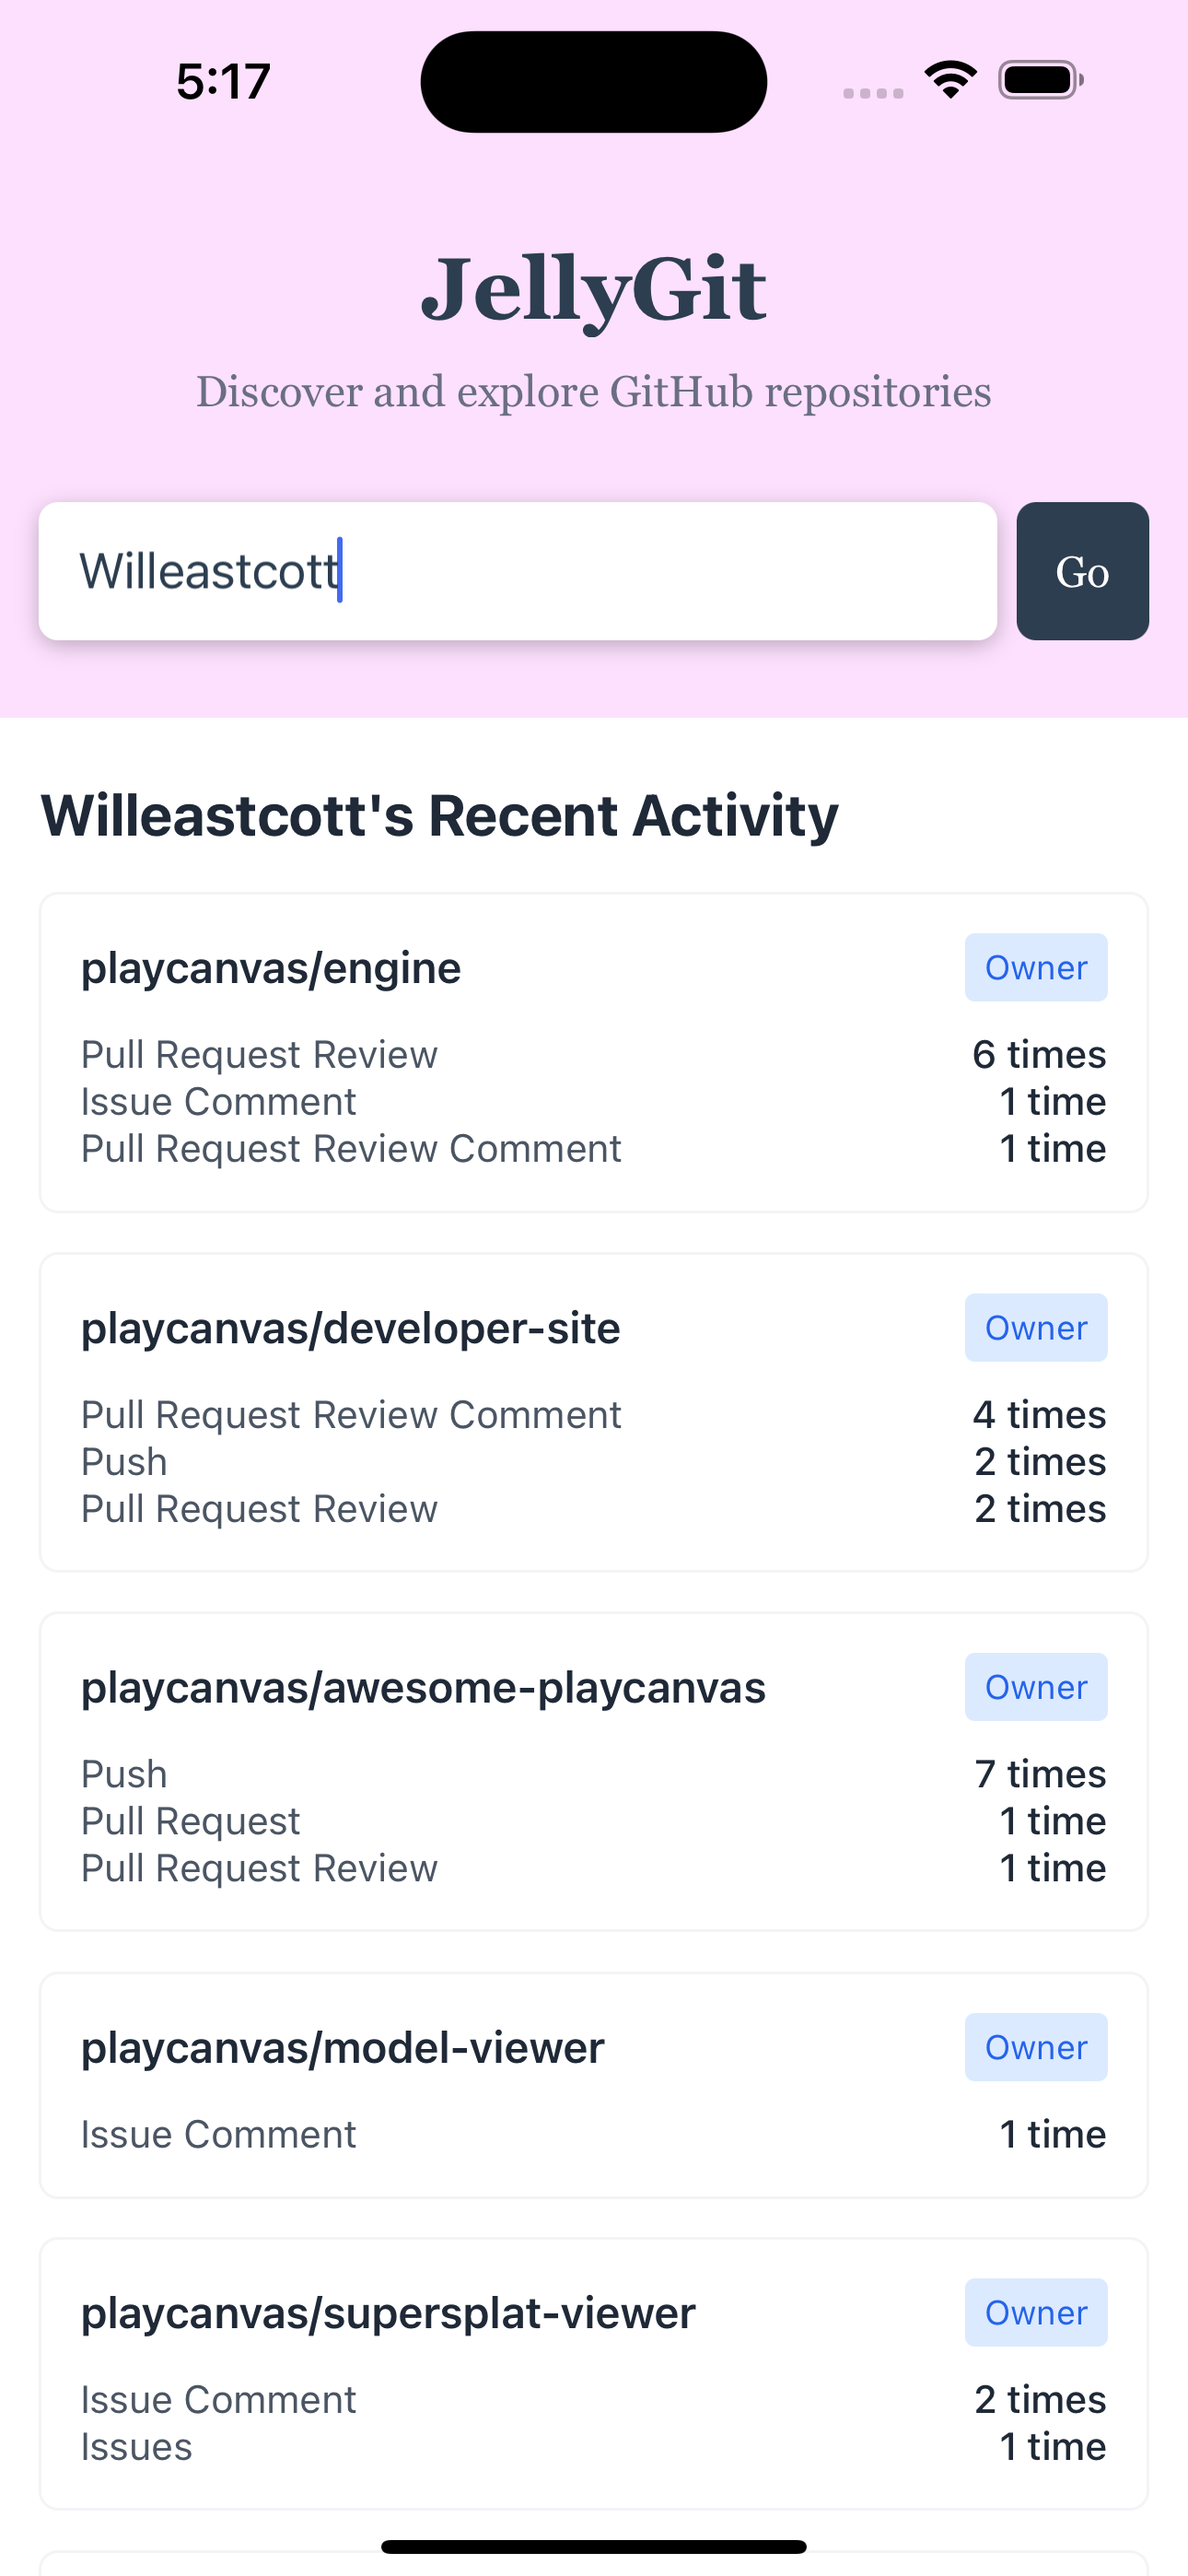
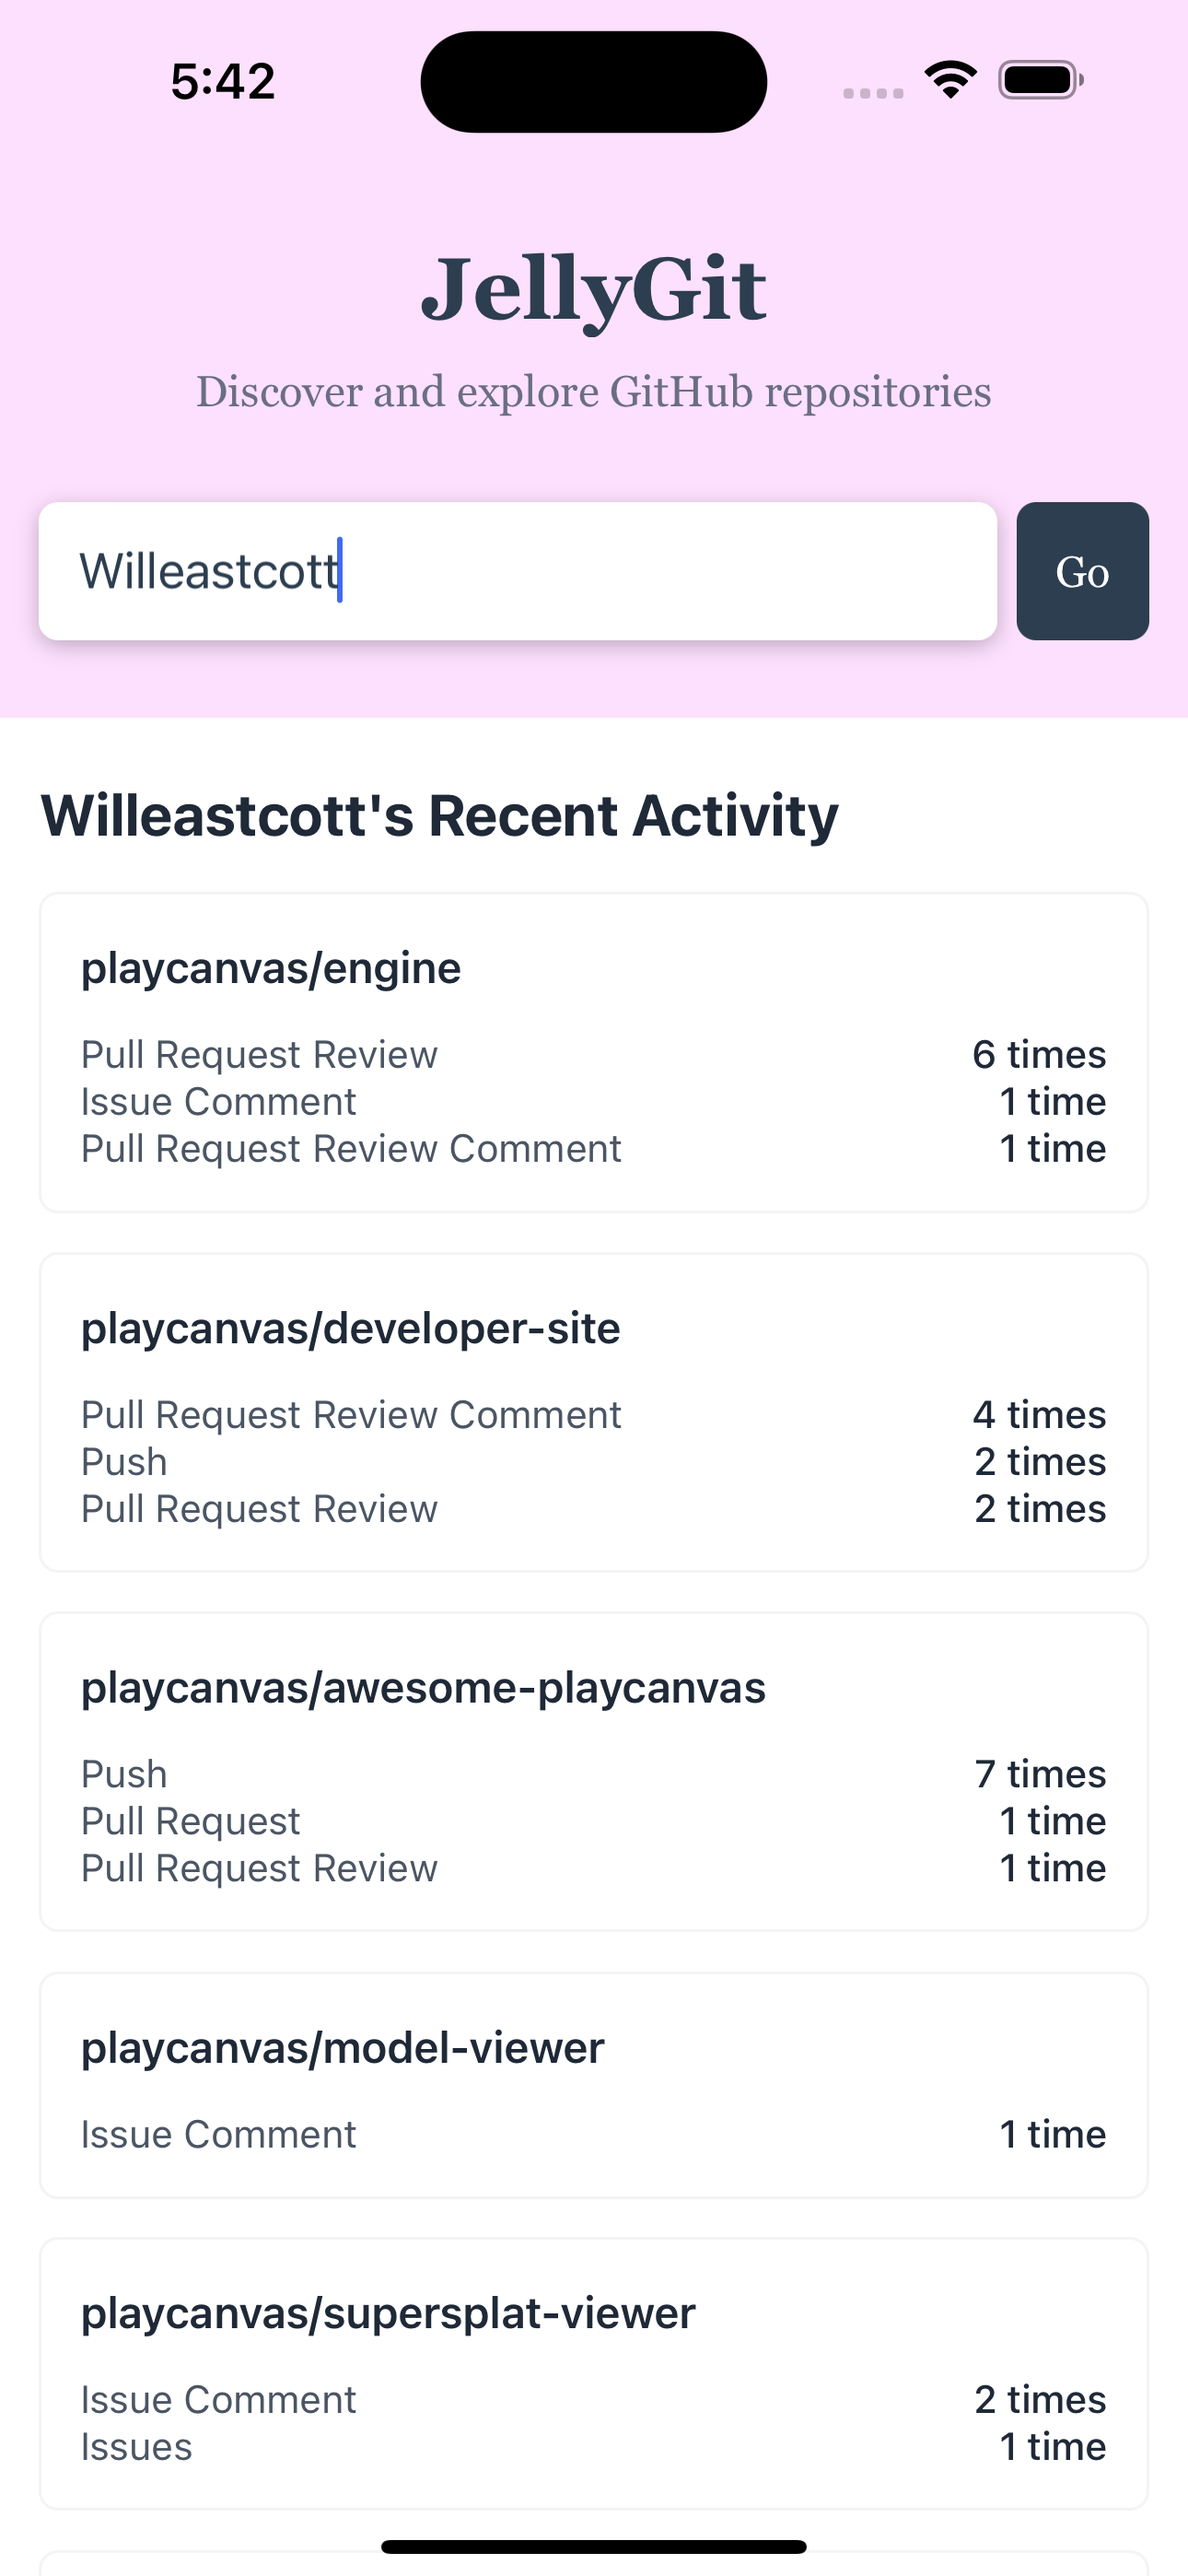
Handling for one more edge case

diff --git a/utils/__tests__/backend.test.ts b/utils/__tests__/backend.test.ts
@@ -1,0 +1,131 @@
+import { GitHubEvent } from '@/types/github';
+import { fetchRepositoriesDetails } from '../backend';
+
+describe('Backend Utilities', () => {
+    describe('fetchRepositoriesDetails', () => {
+        const mockUsername = 'testuser';
+        const mockEventsByRepoId: Record<string, GitHubEvent[]> = {
+            '123': [{
+                id: '1',
+                type: 'PushEvent',
+                actor: {
+                    id: 123,
+                    login: 'testuser',
+                    display_login: 'testuser',
+                    gravatar_id: '',
+                    url: 'https://api.github.com/users/testuser',
+                    avatar_url: 'https://github.com/avatar.png'
+                },
+                repo: {
+                    id: 123,
+                    name: 'testuser/repo1',
+                    url: 'https://github.com/testuser/repo1'
+                },
+                payload: {
+                    commits: [],
+                    push_id: 123,
+                    size: 1,
+                    distinct_size: 1,
+                    ref: 'refs/heads/main',
+                    head: 'abc123',
+                    before: 'def456'
+                },
+                public: true,
+                created_at: '2024-03-20T00:00:00Z'
+            }],
+            '456': [{
+                id: '2',
+                type: 'PushEvent',
+                actor: {
+                    id: 123,
+                    login: 'testuser',
+                    display_login: 'testuser',
+                    gravatar_id: '',
+                    url: 'https://api.github.com/users/testuser',
+                    avatar_url: 'https://github.com/avatar.png'
+                },
+                repo: {
+                    id: 456,
+                    name: 'otheruser/repo2',
+                    url: 'https://github.com/otheruser/repo2'
+                },
+                payload: {
+                    commits: [],
+                    push_id: 456,
+                    size: 1,
+                    distinct_size: 1,
+                    ref: 'refs/heads/main',
+                    head: 'abc123',
+                    before: 'def456'
+                },
+                public: true,
+                created_at: '2024-03-20T00:00:00Z'
+            }]
+        };
+
+        beforeEach(() => {
+            global.fetch = jest.fn();
+        });
+
+        afterEach(() => {
+            jest.resetAllMocks();
+        });
+
+        it('should correctly identify repository ownership', async () => {
+            (global.fetch as jest.Mock)
+                .mockResolvedValueOnce({
+                    ok: true,
+                    json: () => Promise.resolve({ owner: { login: 'testuser' } })
+                })
+                .mockResolvedValueOnce({
+                    ok: true,
+                    json: () => Promise.resolve({ owner: { login: 'otheruser' } })
+                });
+
+            const result = await fetchRepositoriesDetails(mockEventsByRepoId, mockUsername);
+
+            expect(result).toEqual({
+                'testuser/repo1': true,
+                'otheruser/repo2': false
+            });
+            expect(global.fetch).toHaveBeenCalledTimes(2);
+        });
+
+        it('should handle API errors gracefully', async () => {
+            (global.fetch as jest.Mock)
+                .mockResolvedValueOnce({
+                    ok: true,
+                    json: () => Promise.resolve({ owner: { login: 'testuser' } })
+                })
+                .mockRejectedValueOnce(new Error('API Error'));
+
+            const result = await fetchRepositoriesDetails(mockEventsByRepoId, mockUsername);
+
+            expect(result).toEqual({
+                'testuser/repo1': true,
+                'otheruser/repo2': false
+            });
+            expect(global.fetch).toHaveBeenCalledTimes(2);
+        });
+
+        it('should handle non-200 responses', async () => {
+            (global.fetch as jest.Mock)
+                .mockResolvedValueOnce({
+                    ok: true,
+                    json: () => Promise.resolve({ owner: { login: 'testuser' } })
+                })
+                .mockResolvedValueOnce({
+                    ok: false,
+                    statusText: 'Not Found'
+                });
+
+            const result = await fetchRepositoriesDetails(mockEventsByRepoId, mockUsername);
+
+            expect(result).toEqual({
+                'testuser/repo1': true,
+                'otheruser/repo2': false
+            });
+            expect(global.fetch).toHaveBeenCalledTimes(2);
+        });
+    });
+}); 

diff --git a/utils/backend.ts b/utils/backend.ts
@@ -1,6 +1,51 @@
 import { GitHubEvent } from "../types/extractedTypes";
 import { ActivityCount, RepoAnalysis } from "../types/github";
 
+const GITHUB_API_BASE_URL = 'https://api.github.com';
+const GITHUB_API_HEADERS = {
+    'Accept': 'application/vnd.github.v3+json',
+    'User-Agent': 'GitHub-Activity-Analyzer'
+};
+
+async function fetchRepoDetails(repoName: string) {
+    const response = await fetch(
+        `${GITHUB_API_BASE_URL}/repos/${repoName}`,
+        {
+            headers: GITHUB_API_HEADERS
+        }
+    );
+
+    if (!response.ok) {
+        throw new Error(`Failed to fetch repo details: ${response.statusText}`);
+    }
+
+    return response.json();
+}
+
+export const fetchRepositoriesDetails = async (eventsByRepoId: Record<string, GitHubEvent[]>, username: string) => {
+    const repoDetailsPromises = Object.values(eventsByRepoId).map(async (repoEvents) => {
+        const repoName = repoEvents[0].repo.name;
+        try {
+            const repoDetails = await fetchRepoDetails(repoName);
+            return {
+                repoName,
+                isOwner: repoDetails.owner.login.toLowerCase() === username.toLowerCase()
+            };
+        } catch (error) {
+            console.error(`Error fetching details for ${repoName}:`, error);
+            return {
+                repoName,
+                isOwner: false
+            };
+        }
+    });
+
+    const repoDetails = await Promise.all(repoDetailsPromises);
+    return Object.fromEntries(
+        repoDetails.map(details => [details.repoName, details.isOwner])
+    );
+}
+
 export const handleError = (error: Error) => {
     console.error('Error fetching GitHub data:', error);
     return new Response(JSON.stringify({ error: error.message }), {
@@ -50,10 +95,8 @@ export const analyzeRepoActivities = (events: GitHubEvent[]): ActivityCount[] =>
 
 export const createRepoAnalysis = (
     events: GitHubEvent[],
-    username: string
+    isOwner: boolean
 ): RepoAnalysis => {
-    const usernameLower = username.toLowerCase();
-    const isOwner = events[0].actor.login.toLowerCase() === usernameLower;
     const repoName = events[0].repo.name;
     const repoUrl = events[0].repo.url;
 
@@ -63,4 +106,19 @@ export const createRepoAnalysis = (
         isOwner,
         topActivities: analyzeRepoActivities(events),
     };
+}
+
+export const fetchUserEvents = async (username: string): Promise<GitHubEvent[]> => {
+    const response = await fetch(
+        `${GITHUB_API_BASE_URL}/users/${username}/events/public`,
+        {
+            headers: GITHUB_API_HEADERS
+        }
+    );
+
+    if (!response.ok) {
+        throw new Error(`GitHub API error: ${response.statusText}`);
+    }
+
+    return response.json();
 }

diff --git a/app/api/github/get+api.ts b/app/api/github/get+api.ts
@@ -1,12 +1,5 @@
-import { GitHubEvent } from "../../../types/extractedTypes";
 import { GitHubActivityResponse } from "../../../types/github";
-import { createRepoAnalysis, groupEventsByRepo, handleError } from "../../../utils/backend";
-
-const GITHUB_API_BASE_URL = 'https://api.github.com';
-const GITHUB_API_HEADERS = {
-    'Accept': 'application/vnd.github.v3+json',
-    'User-Agent': 'GitHub-Activity-Analyzer'
-};
+import { createRepoAnalysis, fetchRepositoriesDetails, fetchUserEvents, groupEventsByRepo, handleError } from "../../../utils/backend";
 
 export async function GET(request: Request) {
     const { searchParams } = new URL(request.url);
@@ -17,23 +10,13 @@ export async function GET(request: Request) {
     }
 
     try {
-        // Fetch user's recent events
-        const eventsResponse = await fetch(
-            `${GITHUB_API_BASE_URL}/users/${username}/events/public`,
-            {
-                headers: GITHUB_API_HEADERS
-            }
-        );
-
-        if (!eventsResponse.ok) {
-            return handleError(new Error(`GitHub API error: ${eventsResponse.statusText}`));
-        }
-
-        const events: GitHubEvent[] = await eventsResponse.json();
+        const events = await fetchUserEvents(username);
         const eventsByRepoId = groupEventsByRepo(events);
 
+        const repoOwnershipMap = await fetchRepositoriesDetails(eventsByRepoId, username);
+
         const repoAnalysis = Object.values(eventsByRepoId).map(repoEvents => 
-            createRepoAnalysis(repoEvents, username)
+            createRepoAnalysis(repoEvents, repoOwnershipMap[repoEvents[0].repo.name])
         );
 
         const response: GitHubActivityResponse = {

diff --git a/types/github.ts b/types/github.ts
@@ -13,4 +13,42 @@ export interface RepoAnalysis {
 export interface GitHubActivityResponse {
     username: string;
     repositories: RepoAnalysis[];
+}
+
+export interface GitHubEvent {
+    id: string;
+    type: string;
+    actor: {
+        id: number;
+        login: string;
+        display_login: string;
+        gravatar_id: string;
+        url: string;
+        avatar_url: string;
+    };
+    repo: {
+        id: number;
+        name: string;
+        url: string;
+    };
+    payload: {
+        commits: Array<{
+            sha: string;
+            author: {
+                email: string;
+                name: string;
+            };
+            message: string;
+            distinct: boolean;
+            url: string;
+        }>;
+        push_id: number;
+        size: number;
+        distinct_size: number;
+        ref: string;
+        head: string;
+        before: string;
+    };
+    public: boolean;
+    created_at: string;
 } 
